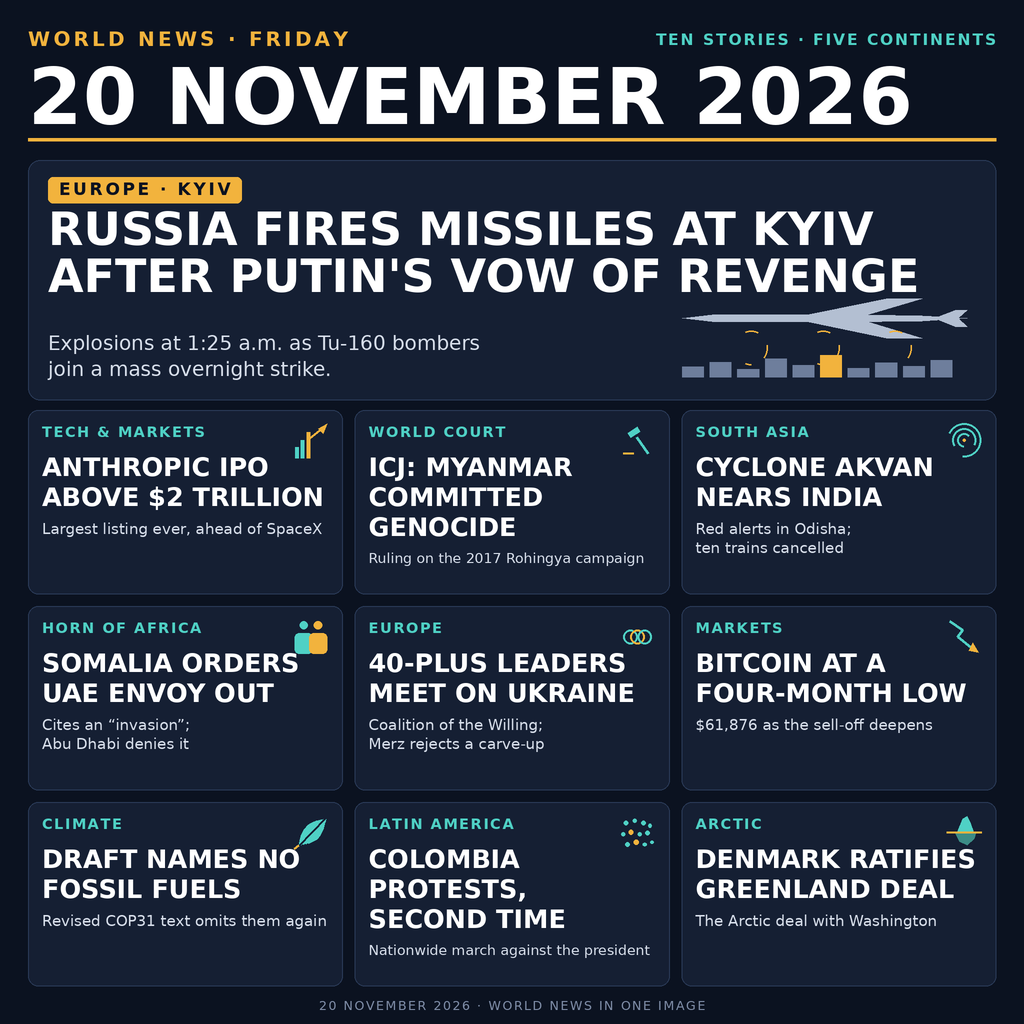
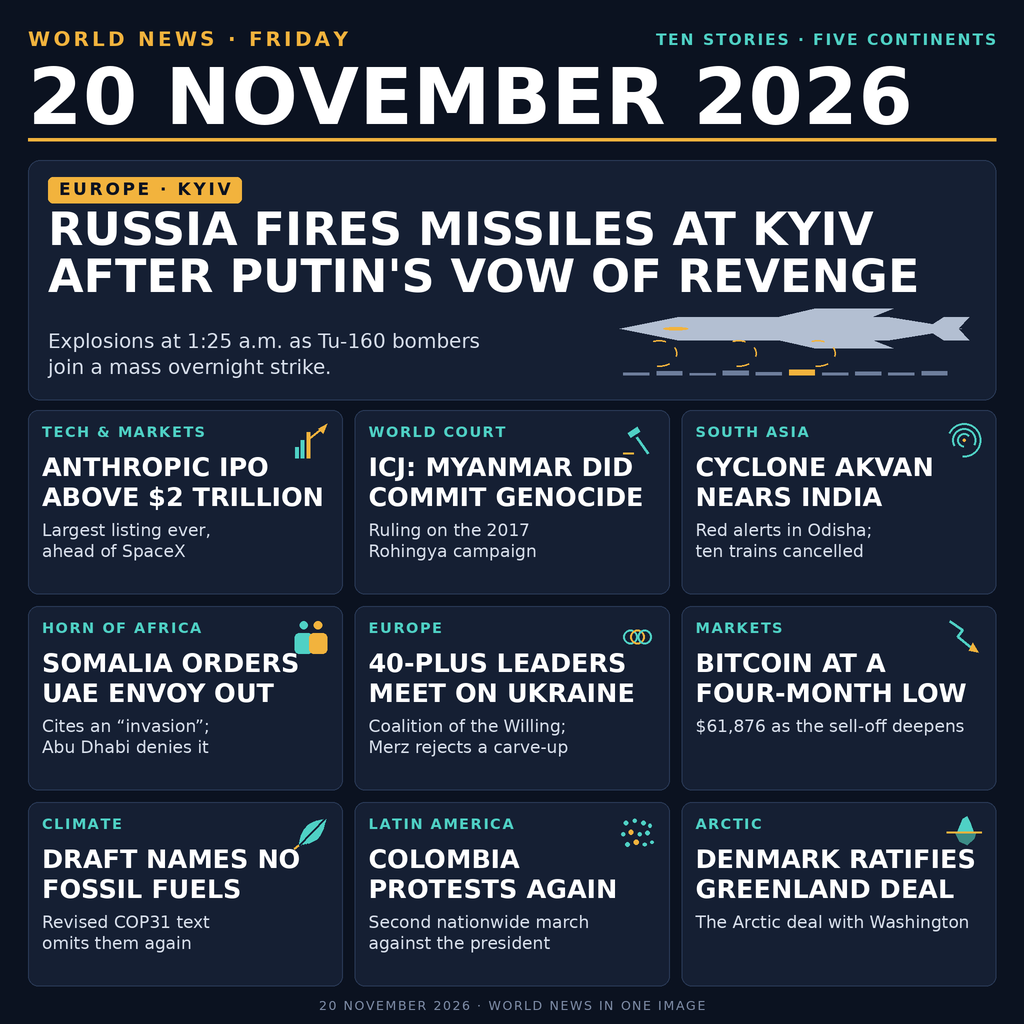
news-image-20261120 r4: new generator, twelve stories

diff --git a/make_image.py b/make_image.py
@@ -71,16 +71,30 @@ def font(kind: str, size: float) -> ImageFont.FreeTypeFont:
             path = _REG
         else:                                    # pragma: no cover
             raise ValueError(kind)
-        _fonts[key] = ImageFont.truetype(path, max(1, int(round(size * SS))))
+        ft = ImageFont.truetype(path, max(1, int(round(size * SS))))
+        ft.caps = kind in ("bold", "cond")
+        _fonts[key] = ft
     return _fonts[key]
+
+
+def render(text: str, f: ImageFont.FreeTypeFont) -> str:
+    """The string as it is actually drawn. Headlines are set in caps, so a
+    fit that measures the mixed-case copy understates the width and lets the
+    type come out smaller than it could be."""
+    return text.upper() if getattr(f, "caps", False) else text
 
 
 def tw(text: str, f: ImageFont.FreeTypeFont, tracking: float = 0.0) -> float:
     """Width of `text` in base pixels, including letterspacing."""
     if not text:
         return 0.0
-    total = sum(f.getlength(ch) for ch in text) / SS
+    total = sum(f.getlength(ch) for ch in render(text, f)) / SS
     return total + tracking * (len(text) - 1)
+
+
+def cap_h(f: ImageFont.FreeTypeFont) -> float:
+    """Height of the drawn caps, which is the type size the eye reads."""
+    return f.getmetrics()[0] / SS
 
 
 def balanced_wrap(text: str, f: ImageFont.FreeTypeFont, limit: float,
@@ -359,37 +373,33 @@ def draw_lead_picto(p: Pen, box) -> None:
     x0, y0, x1, y1 = box
     w, h = x1 - x0, y1 - y0
     grey = PAL["steel"]
-
-    # swept-wing bomber, top view, nose to the left
-    by = y0 + 0.17 * h
-    bh = 0.17 * h
-    p.polygon([(x0 + 0.02 * w, by),
-               (x0 + 0.12 * w, by - 0.32 * bh),
-               (x0 + 0.55 * w, by - 0.36 * bh),
-               (x0 + 0.82 * w, by - 0.24 * bh),
-               (x0 + 0.97 * w, by),
-               (x0 + 0.82 * w, by + 0.22 * bh),
-               (x0 + 0.55 * w, by + 0.32 * bh),
-               (x0 + 0.12 * w, by + 0.28 * bh)], fill=grey)
+    # a swept-wing bomber seen from above, flying left
+    by = y0 + 0.18 * h
+    p.polygon([(x0 + 0.01 * w, by),
+               (x0 + 0.17 * w, by - 0.20 * h),
+               (x0 + 0.76 * w, by - 0.20 * h),
+               (x0 + 0.96 * w, by),
+               (x0 + 0.76 * w, by + 0.20 * h),
+               (x0 + 0.17 * w, by + 0.20 * h)], fill=grey)
     for sign in (-1, 1):
-        p.polygon([(x0 + 0.38 * w, by),
-                   (x0 + 0.70 * w, by + sign * 1.62 * bh),
-                   (x0 + 0.82 * w, by + sign * 1.62 * bh),
-                   (x0 + 0.60 * w, by)], fill=grey)
+        p.polygon([(x0 + 0.31 * w, by),
+                   (x0 + 0.55 * w, by + sign * 0.34 * h),
+                   (x0 + 0.77 * w, by + sign * 0.34 * h),
+                   (x0 + 0.63 * w, by)], fill=grey)
         p.polygon([(x0 + 0.86 * w, by),
-                   (x0 + 0.93 * w, by + sign * 0.66 * bh),
-                   (x0 + 0.97 * w, by + sign * 0.66 * bh),
-                   (x0 + 0.94 * w, by)], fill=grey)
-
+                   (x0 + 0.91 * w, by + sign * 0.20 * h),
+                   (x0 + 0.98 * w, by + sign * 0.20 * h),
+                   (x0 + 0.95 * w, by)], fill=grey)
+    p.ellipse([x0 + 0.13 * w, by - 0.025 * h,
+               x0 + 0.20 * w, by + 0.025 * h], fill=PAL["amber"])
     # three dashed arcs falling from the aircraft to the city
-    ay0 = y0 + 0.34 * h
-    ay1 = y0 + 0.82 * h
-    for fx in (0.20, 0.44, 0.68):
-        cx = x0 + (fx + 0.05) * w
-        rx = 0.055 * w
+    ay0 = y0 + 0.38 * h
+    ay1 = y0 + 0.84 * h
+    for fx in (0.12, 0.34, 0.56):
+        cx = x0 + fx * w
+        rx = 0.05 * w
         p.dash_arc([cx - rx, ay0, cx + rx, ay1], 250, 470,
-                   PAL["amber"], 1.5, dash=46, gap=54)
-
+                   PAL["amber"], 1.7, dash=42, gap=40)
     # city row, one block lit
     base = y1 - 1.0
     heights = (0.34, 0.50, 0.26, 0.62, 0.40, 0.72, 0.30, 0.48, 0.36, 0.56)
@@ -397,11 +407,9 @@ def draw_lead_picto(p: Pen, box) -> None:
     gap = 0.020 * w
     for i, hh in enumerate(heights):
         bx = x0 + 0.02 * w + i * (bw + gap)
-        top = base - hh * (y1 - ay1 + 0.24 * h)
+        top = base - hh * 0.13 * h
         col = PAL["amber"] if i == 5 else PAL["block"]
         p.rect([bx, top, bx + bw, base], fill=col)
-
-
 # --------------------------------------------------------------------------
 # layout
 # --------------------------------------------------------------------------
@@ -411,6 +419,7 @@ RIGHT = BASE - MX
 CONTENT = RIGHT - MX
 
 LEAD_TOP, LEAD_BOT = 160, 400
+DETAIL_LEAD = 1.24         # detail leading, relative to the detail size
 GRID_TOP, GRID_BOT = 410, 986
 GUT = 12
 COLS, ROWSN = 3, 3
@@ -433,7 +442,7 @@ LEAD_BODY_LINES = ("Explosions at 1:25 a.m. as Tu-160 bombers",
 CARDS = [
     ("TECH & MARKETS", "ANTHROPIC IPO ABOVE $2 TRILLION",
      "Largest listing ever, ahead of SpaceX", "bars"),
-    ("WORLD COURT", "ICJ: MYANMAR COMMITTED GENOCIDE",
+    ("WORLD COURT", "ICJ: MYANMAR DID COMMIT GENOCIDE",
      "Ruling on the 2017 Rohingya campaign", "gavel"),
     ("SOUTH ASIA", "CYCLONE AKVAN NEARS INDIA",
      "Red alerts in Odisha; ten trains cancelled", "cyclone"),
@@ -445,15 +454,18 @@ CARDS = [
      "$61,876 as the sell-off deepens", "down"),
     ("CLIMATE", "DRAFT NAMES NO FOSSIL FUELS",
      "Revised COP31 text omits them again", "leaf"),
-    ("LATIN AMERICA", "COLOMBIA PROTESTS, SECOND TIME",
-     "Nationwide march against the president", "crowd"),
+    ("LATIN AMERICA", "COLOMBIA PROTESTS AGAIN",
+     "Second nationwide march against the president", "crowd"),
     ("ARCTIC", "DENMARK RATIFIES GREENLAND DEAL",
      "The Arctic deal with Washington", "iceberg"),
 ]
 
 
 # a break that keeps 'NAMES NO' together so 'names' is read as the verb
-PREFERRED_BREAKS = {6: ("DRAFT NAMES NO", "FOSSIL FUELS")}
+PREFERRED_BREAKS = {0: ("ANTHROPIC IPO", "ABOVE $2 TRILLION"),
+                    6: ("DRAFT NAMES NO", "FOSSIL FUELS"),
+                    7: ("COLOMBIA", "PROTESTS AGAIN"),
+                    8: ("DENMARK RATIFIES", "GREENLAND DEAL")}
 
 
 def build() -> Image.Image:
@@ -519,14 +531,17 @@ def build() -> Image.Image:
                           f"/{ix1 - ix0:.0f}")
 
     # pictogram, lower right of the lead card
-    pw = 300.0
-    py1 = iy1 - 2
-    py0 = py1 - 72
+    pw = 360.0
     px1 = ix1
     px0 = px1 - pw
+    base_y = iy1 - 4
+    max_h = base_y - b2 - 26
+    ph = min(155.0, max_h)
+    py1 = base_y
+    py0 = py1 - ph
     require(py0 >= b2 + 14, "lead pictogram would touch the headline")
     draw_lead_picto(p, (px0, py0, px1, py1))
-    note("lead pictogram", f"{pw:.0f}x{py1 - py0:.0f} at x {px0:.0f}..{px1:.0f}"
+    note("lead pictogram", f"{pw:.0f}x{ph:.0f} at x {px0:.0f}..{px1:.0f}"
                            f", y {py0:.0f}..{py1:.0f}")
 
     # body line(s), left of the pictogram
@@ -558,10 +573,10 @@ def build() -> Image.Image:
 
     def detail_for(text: str, room: float):
         """Largest detail setting that fits the room left under the headline."""
-        for s in (15, 14.5, 14):
+        for s in (17, 16.5, 16, 15.5, 15, 14.5, 14):
             f = font("reg", s)
             for maxl in (1, 2):
-                if round(s * 1.26) * maxl > room:
+                if round(s * DETAIL_LEAD) * maxl > room:
                     continue
                 lines = balanced_wrap(text, f, INNER_W, maxl)
                 if lines and len(lines) <= maxl:
@@ -573,6 +588,12 @@ def build() -> Image.Image:
         f = font("bold", s)
         lh = round(s * 1.16)
         trial, deep, complete = [], 0, True
+        for idx, (_r, headline, _d, _i) in enumerate(CARDS):
+            h = len(PREFERRED_BREAKS.get(idx, ())) or len(
+                balanced_wrap(headline, f, INNER_W, 3) or ())
+            if h * lh > CARD_H - PAD - TOP_OFF - 2 * round(17 * DETAIL_LEAD):
+                complete = False
+                break
         for idx, (_region, headline, detail, _icon) in enumerate(CARDS):
             lines = None
             pref = PREFERRED_BREAKS.get(idx)
@@ -584,6 +605,11 @@ def build() -> Image.Image:
                 complete = False
                 break
             deep += len(lines) == 3
+            widest_line = max(tw(t, f) for t in lines)
+            # a block that fills its measure reads as a deliberate stack; a
+            # narrow one reads as an accident, so the column must be mostly used
+            if widest_line < 0.66 * INNER_W:
+                complete = False
             room = (CARD_H - PAD) - TOP_OFF - lh * len(lines) - 4
             ds, dl = detail_for(detail, room)
             trial.append((f, lh, lines, ds, dl))
@@ -633,7 +659,7 @@ def build() -> Image.Image:
         require(widest <= INNER_W, f"card {idx + 1} headline too wide")
 
         if dlines:
-            dlh = round(dsize * 1.26)
+            dlh = round(dsize * DETAIL_LEAD)
             # detail sits a constant distance under the headline, so the nine
             # cards keep one internal rhythm
             first_b = y + 6 + round(dsize * 0.80)
@@ -656,6 +682,8 @@ def build() -> Image.Image:
     fw = tw(FOOTER, ff, ftr)
     fy = 1010
     require(fy - 13 >= GRID_BOT + 10, "footer crowds the grid")
+    require(TOP_OFF + grid_size * 1.16 * 3 + 8 <= CARD_H - PAD,
+            "headline block leaves no room for detail")
     p.tracked((BASE / 2, fy), FOOTER, ff, PAL["foot"], ftr, anchor="ms")
     note("footer", f"12.5px, track {ftr}, w={fw:.0f}, centred, baseline {fy}")
 
